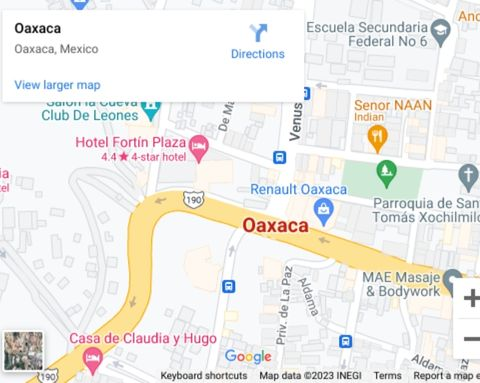
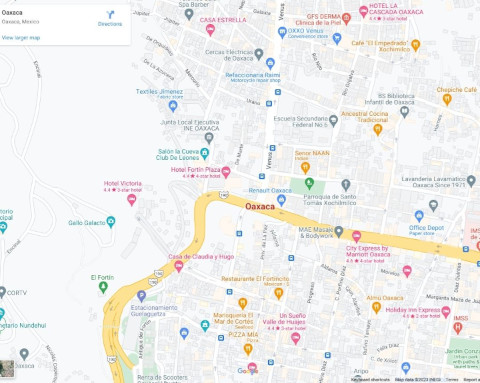
map srcset working

diff --git a/map.html b/map.html
@@ -15,13 +15,21 @@
     </header>
     <nav>
         <ul>
-            <li>Home</li>
+            <li><a href="index.html">Home</a></li>
             <li>Menu</li>
             <li>Order</li>
-            <li><a href="">Map</a></li>
+            <li><a href="map.html">Map</a></li>
         </ul>
     </nav>
     <main>
+        <div class="map">
+            <img src="./imgs/Map-small.jpg" srcset="./imgs/Map-xs.jpg 320w,
+             ./imgs/Map-small.jpg 480w,
+             ./imgs/Map-med.jpg 720w,
+             ./imgs/Map-Large.jpg 1080w" sizes="(min-width: 60rem) 80vw, 
+             (min-width: 40rem) 90vw, 
+             100vw" alt="Map of our Restaurant location">
+        </div>
     </main>
 </body>
 <footer>

diff --git a/css/style.css b/css/style.css
@@ -56,7 +56,6 @@ ul {
     display: flex;
     justify-content: center;
     list-style: none;
-    color: #1A1313;
     align-items: center;
     margin: 0;
     padding: 0 0.5rem 1rem 0.5rem;
@@ -71,8 +70,13 @@ ul li {
     font-family: var(--ff-Header);
     font-weight: 800;
     text-align: center;
-
 }
+
+li a {
+    text-decoration: none;
+    color: #1A1313;
+}
+
 
 nav li:nth-child(1) {
     background-color: var(--c-teal);
@@ -148,6 +152,15 @@ footer {
 
 footer img {
     width: 30px;
+}
+
+.map {
+    display: flex;
+    justify-content: center;
+    list-style: none;
+    align-items: center;
+    margin: 0;
+    padding: 1rem;
 }
 
 
